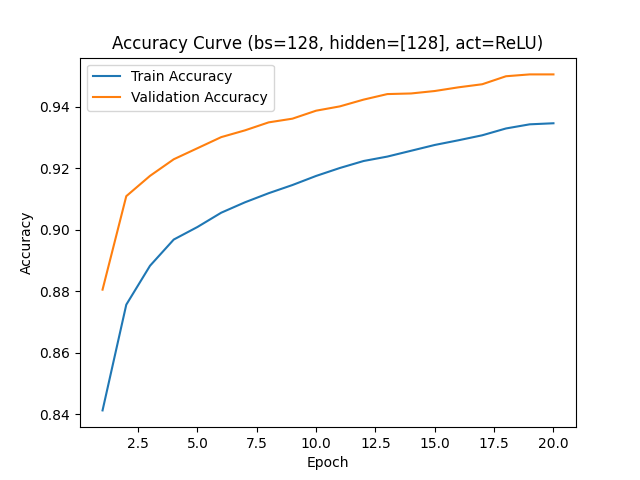
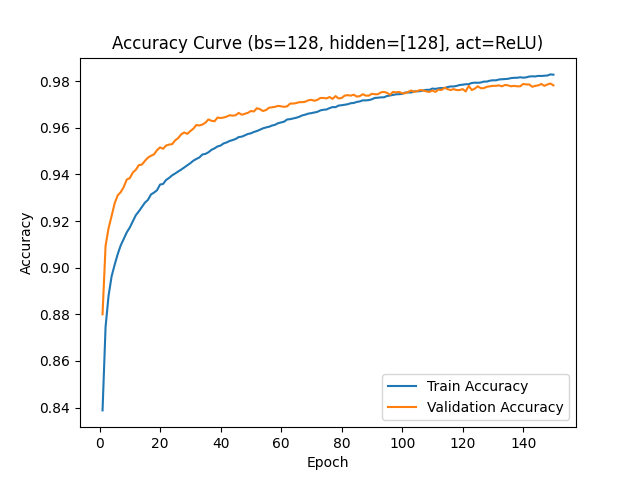
Update:add train epochs to 150

diff --git a/experiments/liang_run_experiments.py b/experiments/liang_run_experiments.py
@@ -42,7 +42,7 @@ from utils.metrics import evaluate
 # ---------------------------------------------------------------------------
 # 固定配置
 # ---------------------------------------------------------------------------
-NUM_EPOCHS = 20
+NUM_EPOCHS = 150
 RANDOM_SEED = 42
 LEARNING_RATE = 0.01
 OPTIMIZER = "sgd"
